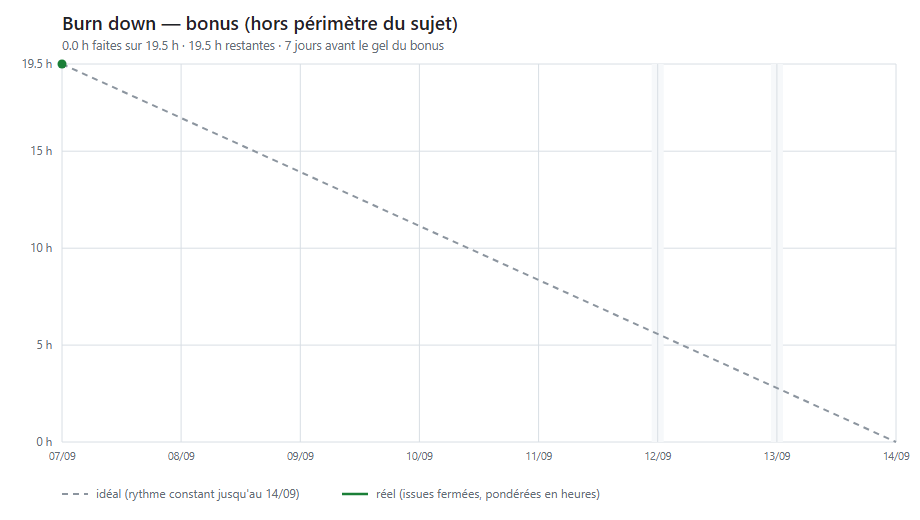
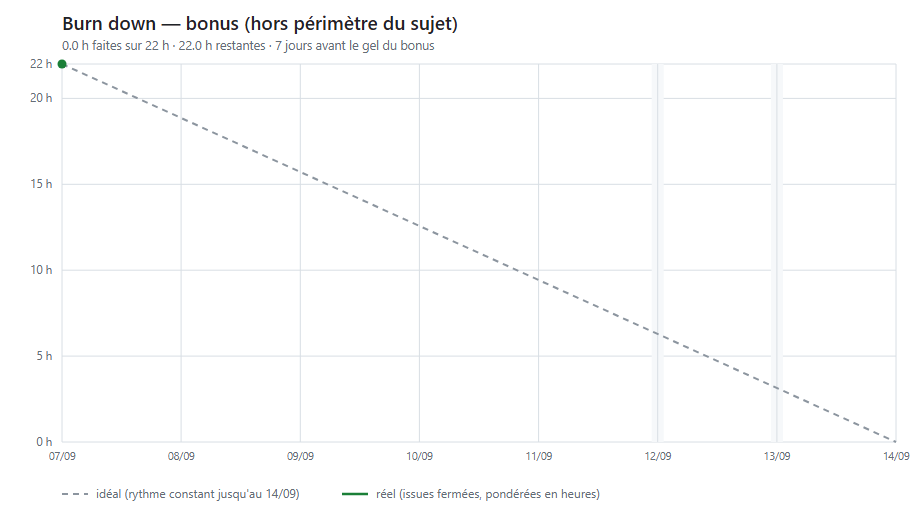
chore: integre le lot notification enrichie au burn down bonus

diff --git a/scripts/burndown.py b/scripts/burndown.py
@@ -38,6 +38,7 @@ CHARTS = [
             ("10 - CI multi",  58, 62, 3.5),
             ("11 - K8s multi", 63, 69, 5.0),
             ("12 - Sécurité",  70, 74, 2.5),
+            ("13 - Notif riche", 75, 80, 2.5),
         ],
     },
 ]
